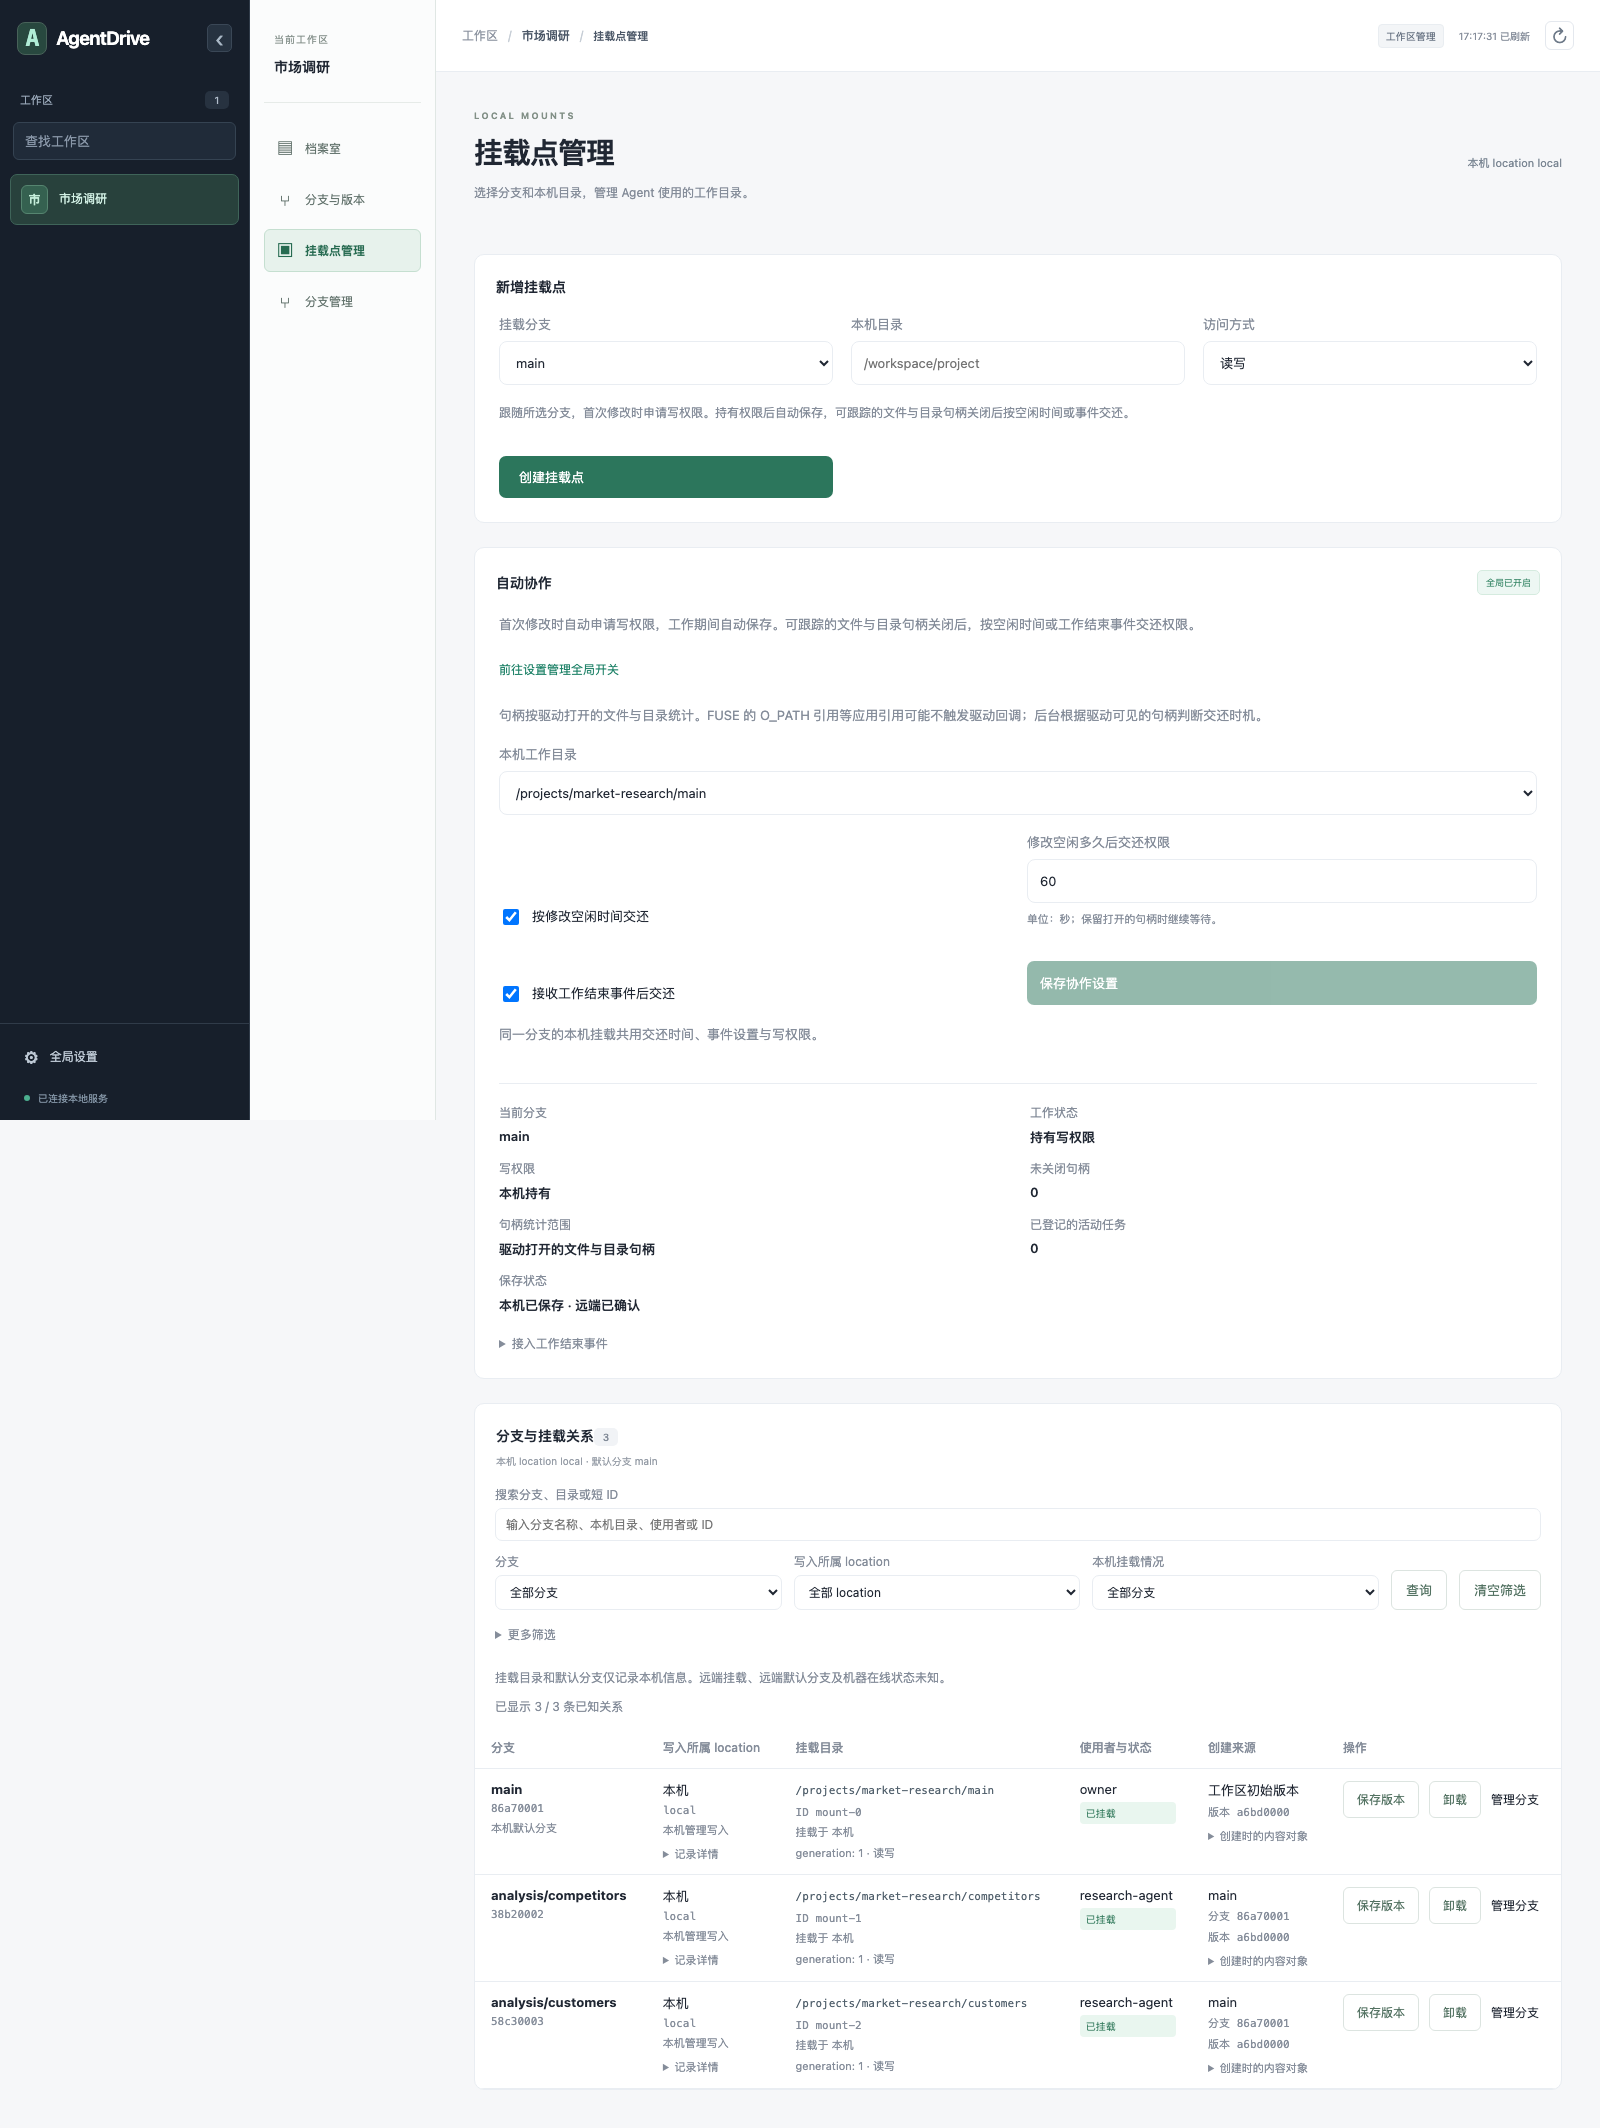
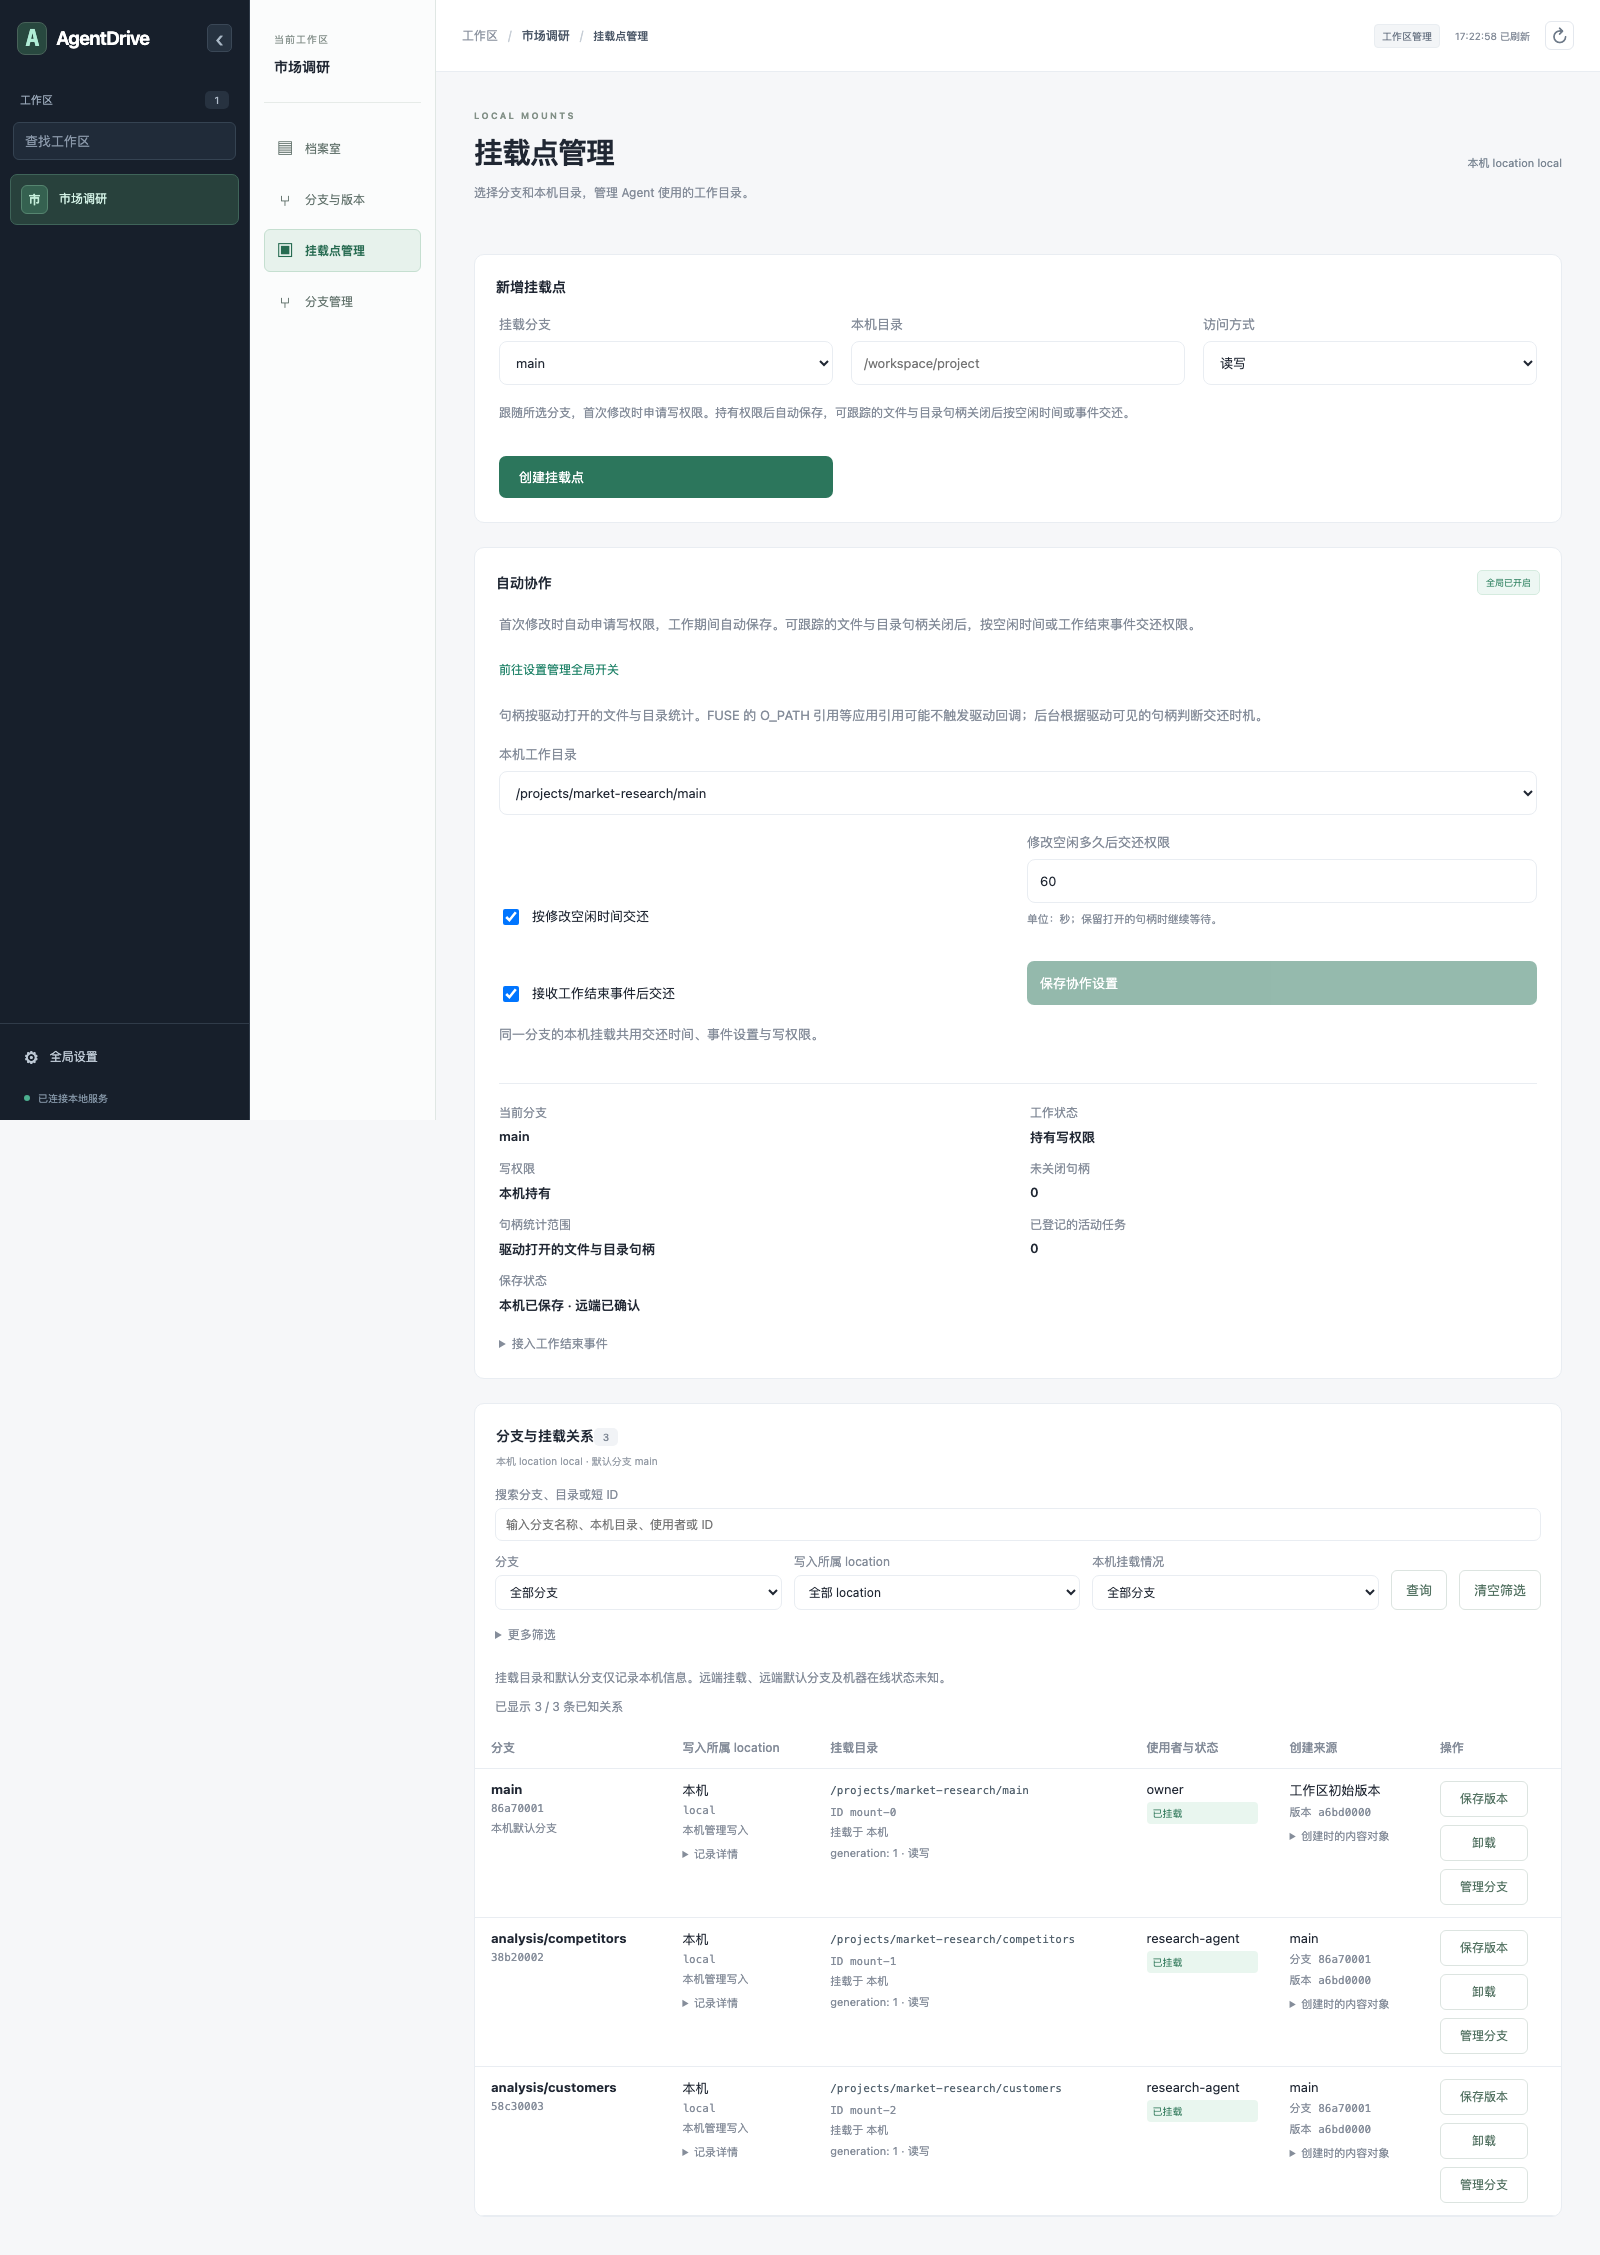
fix(dashboard): unify mount action button styles

diff --git a/crates/agentdrive-mcp/dashboard/relationships.js b/crates/agentdrive-mcp/dashboard/relationships.js
@@ -111,7 +111,7 @@ export function createRelationshipsView({api, element, container, onSave, onUnmo
     }
     row.append(name, ownership, directory, state, source);
     if (onUnmount) {
-      const actions = element('td'), buttons = element('div', 'management-actions');
+      const actions = element('td'), buttons = element('div', 'relationship-actions');
       if (mount && mount.state !== 'released') {
         for (const [label, handler] of [...(mount.access === 'read_write' ? [['保存版本', onSave]] : []), ['卸载', onUnmount]]) {
           const button = element('button', 'secondary', label); button.type = 'button'; button.disabled = busy;
@@ -119,7 +119,7 @@ export function createRelationshipsView({api, element, container, onSave, onUnmo
           button.dataset.mountAction = 'true'; button.onclick = () => handler(mount); buttons.append(button);
         }
       }
-      const link = element('a', 'management-link', '管理分支');
+      const link = element('a', 'secondary', '管理分支');
       link.href = '/branches?' + new URLSearchParams({workspace, branch:branch.id}); buttons.append(link);
       actions.append(buttons); row.append(actions);
     }

diff --git a/crates/agentdrive-mcp/dashboard/management.css b/crates/agentdrive-mcp/dashboard/management.css
@@ -25,6 +25,8 @@
 .command-panel summary { cursor:pointer; }
 .command-details { display:block; white-space:pre-wrap; overflow-wrap:anywhere; margin-top:8px; }
 #relationships-panel { margin-top:24px; }
+.relationship-actions { display:flex; flex-direction:column; gap:8px; width:88px; }
+.relationship-actions .secondary { display:flex; align-items:center; justify-content:center; min-height:36px; padding:7px 12px; font-size:12px; line-height:20px; text-decoration:none; }
 .relationship-filters .relationship-search { flex-basis:100%; }
 .relationship-filters .relationship-advanced { flex-basis:100%; color:var(--muted); font-size:12px; }
 .relationship-advanced summary { cursor:pointer; margin:4px 0 12px; }
